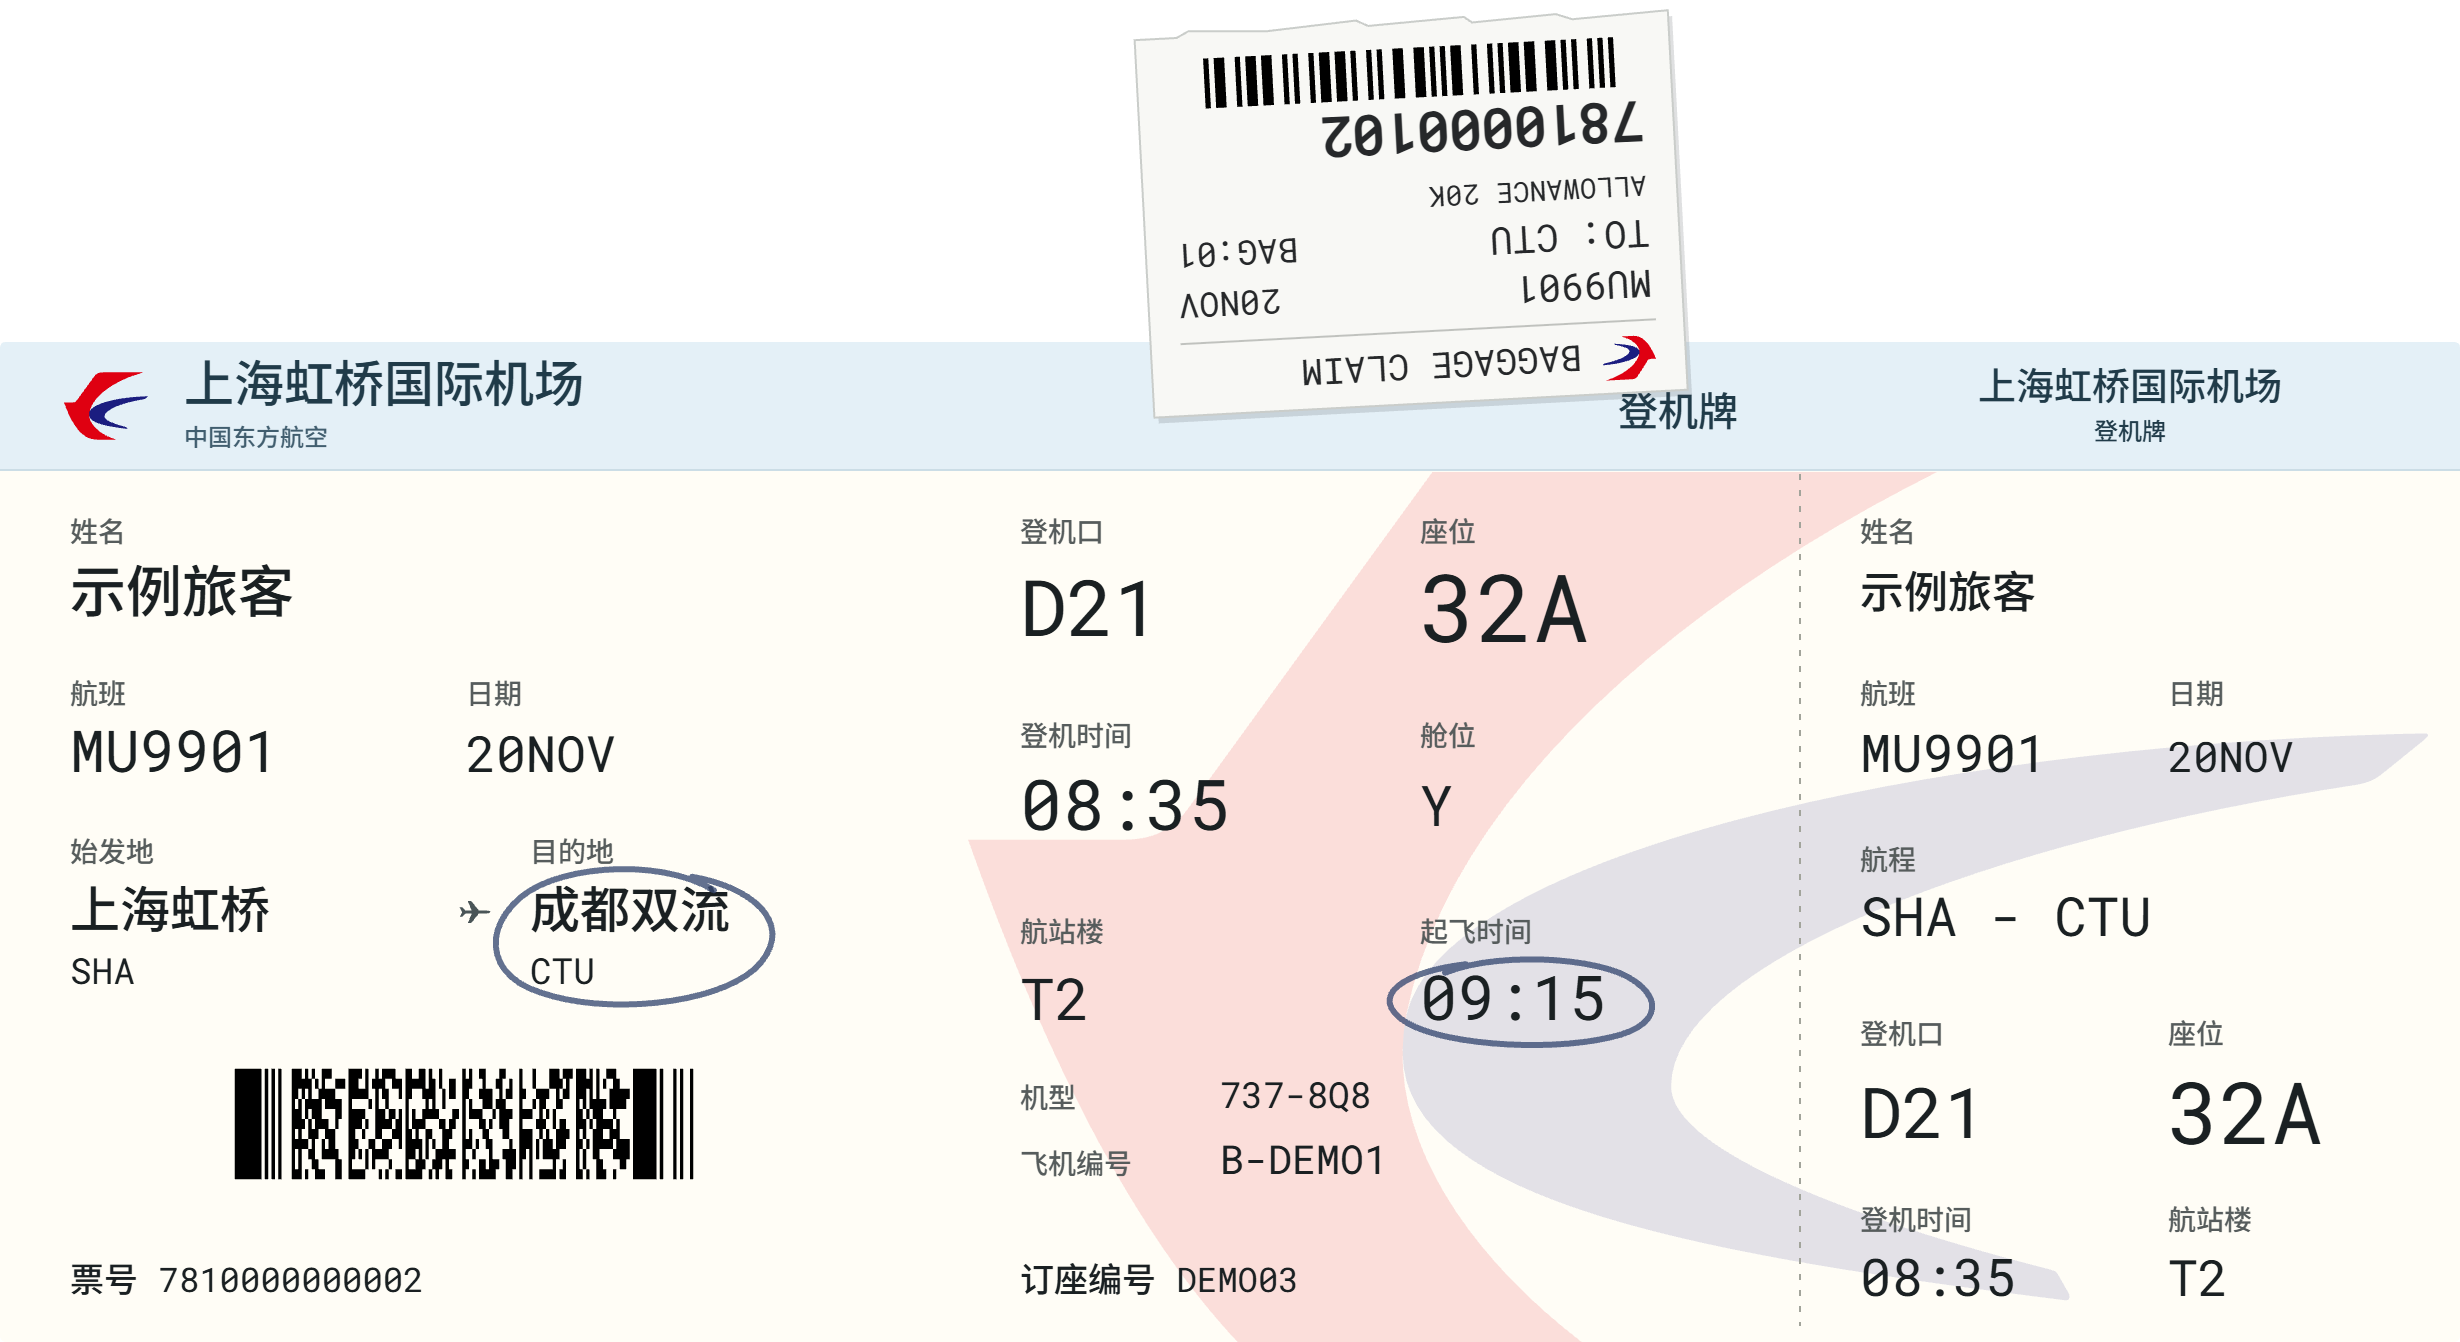
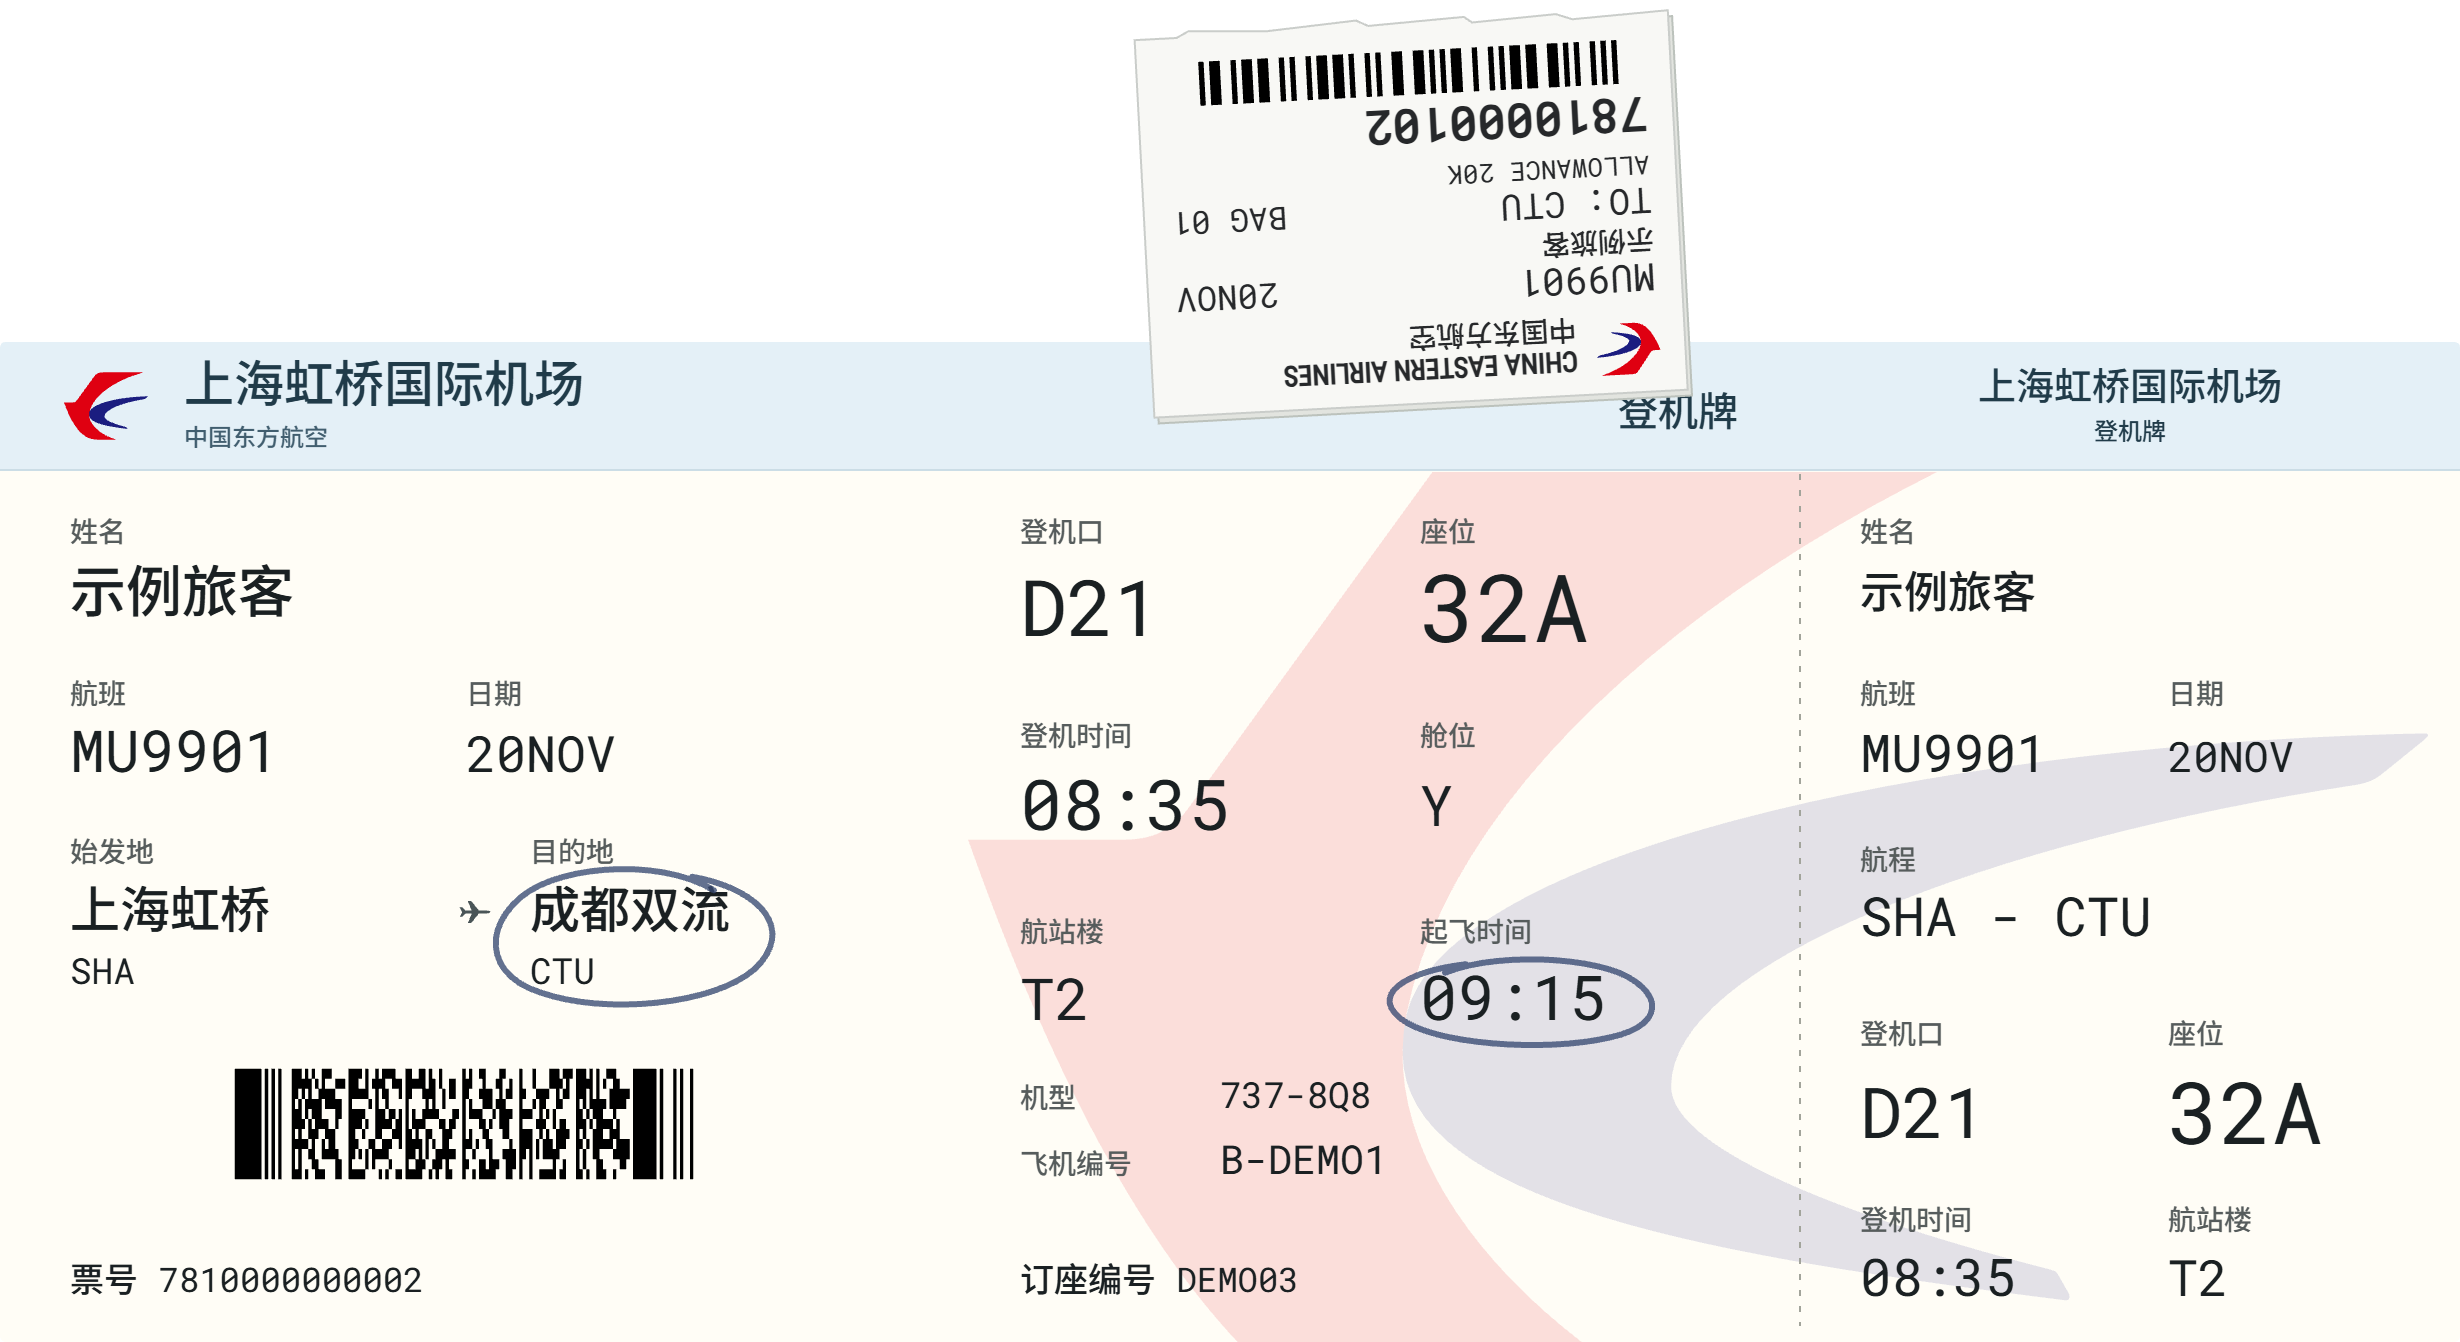
Refine printed baggage label typography and layout

Changed region(s): [[0.4634, 0.0306, 0.6797, 0.3361], [0.4634, 0.1528, 0.5252, 0.2444]]

diff --git a/src/ticket-layouts.js b/src/ticket-layouts.js
@@ -283,7 +283,7 @@ function boardingPenCircle(field, x, y, width, height, reverse = false) {
   return `<path data-boarding-pen="${field}" aria-hidden="true" d="${outline}" fill="none" stroke="#394b73" stroke-width="3" stroke-linecap="round" opacity=".79"/>`;
 }
 
-function baggageSticker(record, departureDate, mark) {
+function baggageSticker(record, departureDate, presentation, mark) {
   const tags = record.baggageTagNumbers?.trim() || '';
   const barcodeTag = /\b\d{10}\b/.exec(tags)?.[0];
   const count = record.checkedBaggageCount?.trim();
@@ -291,22 +291,29 @@ function baggageSticker(record, departureDate, mark) {
   const code = barcodeTag && renderCodeData({
     version: 1, format: 'ITF', rawBytes: btoa(barcodeTag), symbologyIdentifier: ']I0',
     eci: [], gs1: false, parameters: {}
-  }, { x: 8, y: 151, width: 250, height: 33, stretch: true, marker: 'baggage-tag-code' });
+  }, { x: 6, y: 153, width: 255, height: 29, stretch: true, marker: 'baggage-tag-code' });
   const outline = 'M1 2H268V191L247 191L241 194L202 192L157 195L151 192L103 194L99 191L57 193L49 190L1 192Z';
   const number = barcodeTag || ([...tags].length > 36 ? [...tags].slice(0, 35).join('') + '…' : tags);
+  const { carrierNames, passenger } = presentation;
+  const carrier = carrierNames?.en?.toUpperCase() || record.airline || 'BAGGAGE CLAIM';
+  const headerX = mark ? 55 : 14;
+  const print = (x, y, value, width, size = 16, attrs = '') =>
+    text(x, y, value, Math.min(size, width / Math.max(1, textUnits(value || ''))), 'TicketMono,TicketHei', attrs);
+  const right = 'text-anchor="end"';
   return `<g data-boarding-baggage-sticker="true" transform="translate(570 8) rotate(177 135 98)" fill="#26282a">
     <title>${esc(['行李提取联', tags, count && `托运 ${count} 件`, allowance && `免费行李额 ${allowance}`].filter(Boolean).join(' · '))}</title>
-    <path d="${outline}" transform="translate(-2 -3)" fill="#273136" opacity=".15"/>
+    <path d="${outline}" transform="translate(-2 -3)" fill="#e2e4df" stroke="#bcc2bc"/>
     <path d="${outline}" fill="#f8f8f5" stroke="#cacdca"/>
-    ${mark ? `<image data-baggage-airline-logo="true" x="16" y="6" width="27" height="27" preserveAspectRatio="xMidYMid meet" href="${mark.image}"/>` : ''}
-    ${text(mark ? 53 : 16, 27, 'BAGGAGE CLAIM', 18, 'TicketMono')}
-    <path d="M15 38H253" stroke="#c0c2be"/>
-    ${text(16, 63, record.service, 19, 'TicketMono')}
-    ${text(253, 63, departureDate, 17, 'TicketMono', 'text-anchor="end"')}
-    ${text(16, 88, record.destinationCode && `TO: ${record.destinationCode}`, 19, 'TicketMono')}
-    ${text(253, 88, count && `BAG:${count.padStart(2, '0')}`, 17, 'TicketMono', 'text-anchor="end"')}
-    ${text(16, 110, allowance && `ALLOWANCE ${allowance.slice(0, 16)}`, 14, 'TicketMono')}
-    ${text(16, code ? 147 : 151, number, Math.min(27, 236 / Math.max(1, textUnits(number))), 'TicketMono', 'font-weight="700"')}
+    ${mark ? `<image data-baggage-airline-logo="true" x="13" y="8" width="33" height="32" preserveAspectRatio="xMidYMid meet" href="${mark.image}"/>` : ''}
+    ${text(headerX, carrierNames?.zh ? 24 : 32, carrier, Math.min(24, (254 - headerX) / textUnits(carrier)), 'TicketLatin,TicketHei', 'font-weight="700"')}
+    ${text(headerX, 40, carrierNames?.zh, 14, 'TicketHei')}
+    ${print(14, 66, record.service, 127, 19)}
+    ${print(254, 66, departureDate, 73, 17, right)}
+    ${print(14, 83, passenger, 239, 14)}
+    ${print(14, 104, record.destinationCode && `TO: ${record.destinationCode}`, 129, 18)}
+    ${print(254, 104, count && `BAG ${count.padStart(2, '0')}`, 96, 16, right)}
+    ${print(14, 120, allowance && `ALLOWANCE ${allowance.slice(0, 16)}`, 239, 13)}
+    ${print(14, 149, number, 237, 23, 'font-weight="700" letter-spacing=".4"')}
     ${code || ''}
   </g>`;
 }
@@ -396,7 +403,7 @@ function flight(r) {
       ${label(930, 351, words.gate)}${label(1084, 351, words.seat)}${printed(930, 398, r.gate, 35, 125)}${printed(1084, 401, r.seat, 43, 120)}
       ${label(930, 444, words.boarding)}${label(1084, 444, words.terminal)}${printed(930, 477, r.boardingTime, 26, 140)}${printed(1084, 477, r.terminal, 25, 120)}
     </g>
-  </g></g>${hasSticker ? baggageSticker(r, date(r.departureDate), mark) : ''}</g>`;
+  </g></g>${hasSticker ? baggageSticker(r, date(r.departureDate), presentation, mark) : ''}</g>`;
 }
 
 export function renderTicket(record) {

diff --git a/tests/boarding-metadata.test.js b/tests/boarding-metadata.test.js
@@ -48,7 +48,8 @@ test('individually archived legs retain their barcode metadata and display links
   assert.match(ticketSVG({ ...withoutBaggage, freeBaggageAllowance: '20K' }), /ALLOWANCE 20K/);
   assert.match(ticketSVG(rows[0]), /data-baggage-tag-code="reencoded"/);
   assert.doesNotMatch(ticketSVG({ ...withoutBaggage, freeBaggageAllowance: '20K' }), /data-baggage-tag-code/);
-  assert.match(ticketSVG({ ...rows[0], airline: '中国国际航空' }), /data-baggage-airline-logo="true"/);
+  const brandedSticker = ticketSVG({ ...rows[0], airline: '中国国际航空' }).split('data-boarding-baggage-sticker')[1];
+  assert.match(brandedSticker, /data-baggage-airline-logo="true".*?[\s\S]*AIR CHINA[\s\S]*中国国际航空/);
   assert.throws(()=>createRecord({...second,boardingLegIndex:'3'}),/航段/);
   assert.throws(()=>createRecord({type:'flight',template:'air-boarding-pass',checkedBaggageCount:'-1'}),/行李件数/);
   assert.throws(()=>createRecord({type:'flight',template:'air-boarding-pass',checkedBaggageCount:'1.5'}),/行李件数/);

diff --git a/src/boarding-language.js b/src/boarding-language.js
@@ -60,6 +60,7 @@ export function boardingPresentation(record) {
   };
   const airport = origin.status !== 'matched' ? record.origin || words.airport
     : language === 'zh' ? origin.chineseFullName || origin.englishName : origin.englishName;
-  const airline = airlineNames.get(airlineKey(record.airline))?.[language] || record.airline || words.airline;
-  return { language, words, airport, airline, origin: routeName('origin'), destination: routeName('destination'), passenger:flightPassengerName(record,readBoardingCode(record.boardingCode,record.boardingLegIndex) || {}) };
+  const carrierNames = airlineNames.get(airlineKey(record.airline));
+  const airline = carrierNames?.[language] || record.airline || words.airline;
+  return { language, words, airport, airline, carrierNames, origin: routeName('origin'), destination: routeName('destination'), passenger:flightPassengerName(record,readBoardingCode(record.boardingCode,record.boardingLegIndex) || {}) };
 }
